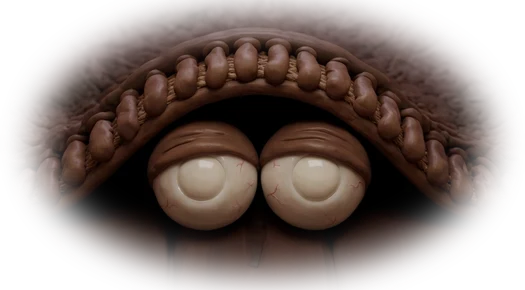
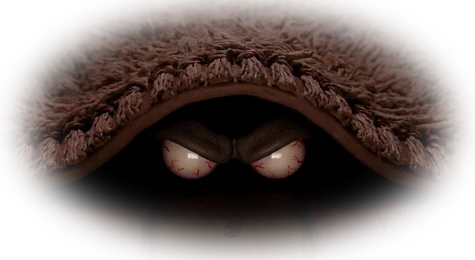
Cabin site: clay candle flames everywhere, slower clay fire, meaner smaller rug eyes under a matching rug edge
Claude-Session: https://claude.ai/code/session_017UCt1yh6wM11RSMuh2VTku

Changed region(s): [[0.0295, 0.0923, 0.9726, 0.8], [0.5011, 0.8, 0.56, 0.8615], [0.7074, 0.0923, 0.7368, 0.1231]]

diff --git a/docs/index.html b/docs/index.html
@@ -101,17 +101,12 @@ button{font:inherit;color:inherit}
 #signSpot.found{cursor:pointer;background:radial-gradient(closest-side,rgba(190,215,255,.16),transparent);box-shadow:0 0 0 2px rgba(190,215,255,.0),0 0 40px 8px rgba(160,195,255,.28);animation:signglow 2.4s ease-in-out infinite alternate}
 @keyframes signglow{from{box-shadow:0 0 26px 4px rgba(160,195,255,.16)}to{box-shadow:0 0 46px 10px rgba(160,195,255,.34)}}
 /* Something under the rug (George 2026-11-28): the centre of the rug's front edge is lifted; clay eyes sit under it and only the pupils follow the mouse */
-.rlift{position:absolute;left:39.97%;top:77.62%;width:22.34%;aspect-ratio:525/290;pointer-events:none;z-index:3}
+.rlift{position:absolute;left:43.05%;top:81.57%;width:16.17%;aspect-ratio:475/260;pointer-events:none;z-index:3}
 .rlift>img{position:absolute;inset:0;width:100%;height:100%}
-.rlift .balls{position:absolute;inset:0;-webkit-mask:url(img/rug-eyemask.png) center/100% 100% no-repeat;mask:url(img/rug-eyemask.png) center/100% 100% no-repeat}
-.rlift .iris{position:absolute;width:9.6%;aspect-ratio:1;translate:-50% -50%;background:url(img/eye-iris.webp?v=1) center/100% 100% no-repeat;border-radius:50%;box-shadow:0 0 0 1px rgba(40,10,0,.5),inset 0 -2px 4px rgba(0,0,0,.35);filter:saturate(1.1)}
-.rlift .gl{position:absolute;width:3.2%;z-index:2;aspect-ratio:1.6;border-radius:50%;background:radial-gradient(closest-side,rgba(255,255,255,.95),rgba(255,255,255,0));translate:-50% -50%}
-.rlift .white{position:absolute;inset:0;background:radial-gradient(9% 15% at 38.6% 60%,#f1e9dc,#ddd2c2 55%,#b4a795 85%,#8a7c6c),radial-gradient(9% 15% at 59.4% 60%,#f1e9dc,#ddd2c2 55%,#b4a795 85%,#8a7c6c) ;background-size:100% 100%}
-.rlift .white{background:none}
-.rlift .white::before,.rlift .white::after{content:'';position:absolute;top:50%;width:18%;height:26%;border-radius:50%;background:radial-gradient(closest-side at 46% 42%,#f3ebde,#ddd2c2 55%,#b9ab98 82%,#8f8170)}
-.rlift .white::before{left:30%}.rlift .white::after{left:50.2%}
-.rlift .shade{position:absolute;inset:0;background:linear-gradient(rgba(30,12,6,.55),rgba(30,12,6,0) 62%,rgba(0,0,0,.25))}
-.rlift .bl{position:absolute;inset:0;background:linear-gradient(#6b4a38,#4a3024 60%,#2c1a12);transform-origin:50% 54%;transform:scaleY(0)}
+.rlift .balls{position:absolute;inset:0;-webkit-mask:url(img/rug-eyemask.png?v=2) center/100% 100% no-repeat;mask:url(img/rug-eyemask.png?v=2) center/100% 100% no-repeat}
+.rlift .iris{position:absolute;width:4.6%;aspect-ratio:1;translate:-50% -50%;border-radius:50%;background:radial-gradient(circle at 36% 34%,rgba(255,240,220,.85) 0 9%,transparent 13%),radial-gradient(closest-side,#070101 0 58%,#4a0707 78%,rgba(90,10,10,.5) 90%,transparent)}
+.rlift .shade{position:absolute;inset:0;background:linear-gradient(rgba(20,6,3,.6),rgba(20,6,3,0) 63%,rgba(0,0,0,.25))}
+.rlift .bl{position:absolute;inset:0;background:linear-gradient(#4a3226,#2e1d15 60%,#1a0f0a);transform-origin:50% 54%;transform:scaleY(0)}
 .rlift.blink .bl{animation:blink .3s ease-in-out}
 @keyframes blink{50%{transform:scaleY(1)}}
 .fx{position:absolute;inset:0;z-index:2;pointer-events:none;overflow:hidden}
@@ -120,6 +115,8 @@ button{font:inherit;color:inherit}
 @keyframes flk{0%{opacity:.85;transform:translate(-50%,-55%) scale(1,1)}11%{opacity:.6;transform:translate(-52%,-57%) scale(.9,1.08)}22%{opacity:.95;transform:translate(-49%,-55%) scale(1.05,.95)}33%{opacity:.7;transform:translate(-51%,-56%) scale(.95,1.05)}44%{opacity:1;transform:translate(-50%,-54%) scale(1.08,1)}55%{opacity:.55;transform:translate(-48%,-57%) scale(.88,1.1)}66%{opacity:.9;transform:translate(-50%,-55%) scale(1,1)}77%{opacity:.75;transform:translate(-52%,-55%) scale(.96,1.04)}88%{opacity:1;transform:translate(-50%,-56%) scale(1.04,.98)}100%{opacity:.85;transform:translate(-50%,-55%) scale(1,1)}}
 .fx .halo{position:absolute;transform:translate(-50%,-50%);border-radius:50%;mix-blend-mode:screen;background:radial-gradient(closest-side,rgba(255,150,60,.32),rgba(255,110,30,.12) 55%,transparent);animation:hal 2.3s ease-in-out infinite alternate;animation-delay:var(--dl,0s)}
 @keyframes hal{0%{opacity:.55}20%{opacity:.9}35%{opacity:.6}60%{opacity:1}80%{opacity:.7}100%{opacity:.95}}
+.fx .cfl{position:absolute;translate:-50% -100%;background:url(img/clay-candle.webp?v=1) 0 0/400% 100% no-repeat;animation:cfire 2s steps(4) infinite;filter:drop-shadow(0 0 .25vw rgba(255,170,60,.7))}
+@media (prefers-reduced-motion: reduce){.fx .cfl{animation:none}}
 .fx .cfire{position:absolute;background:url(img/clay-fire.webp?v=1) 0 0/400% 100% no-repeat;animation:cfire .6s steps(4) infinite;filter:drop-shadow(0 0 .5vw rgba(255,130,30,.55));-webkit-mask-image:linear-gradient(to top,transparent,#000 16%);mask-image:linear-gradient(to top,transparent,#000 16%)}
 @keyframes cfire{to{background-position:133.333% 0}}
 @media (prefers-reduced-motion: reduce){.fx .cfire{animation:none}}
@@ -833,13 +830,14 @@ button{font:inherit;color:inherit}
       inside:{img:'img/inside.jpg?v=8',
         candles:[[15.6,33,2.6],[17.8,33.5,2.4],[19.8,32,2.6],[15,51,3],[13,56.5,2.6],[14,57,2.4],[61.8,43,2.4],[64.6,42.5,2.4],[66.1,42.8,2.4],[68,43.5,2.4],[80.9,33,2.4]],
         halos:[[17,40,16,24],[14.5,55,12,16],[65,47,12,14],[81,34,8,10]],
-        fire:[60.5,56,9,14.5], fireHalo:[65,66,24,22], clayFire:[61.9,56.9,5.9,10.6,.56],
+        fire:[60.5,56,9,14.5], fireHalo:[65,66,24,22], clayFire:[61.9,56.9,5.9,10.6,1.25],
+        cflames:[[15.62, 34.31, 1.05, 2.54], [17.78, 34.18, 0.79, 2.15], [20.01, 33.01, 1.05, 2.54], [15.18, 52.67, 1.29, 4.09], [12.83, 56.97, 1.17, 2.92], [13.84, 58.01, 1.05, 2.34], [61.76, 44.34, 0.79, 2.15], [64.62, 44.08, 0.91, 2.15], [66.15, 43.17, 1.05, 2.15], [68.08, 44.73, 0.79, 1.56], [81.1, 34.31, 1.05, 2.73]],
         tv:[29.9,50.2,8.6,11.4],
         bulbs:[[86.7,26,'#ff4a3a'],[78,30,'#ff4a3a'],[83.8,31.8,'#ff4a3a'],[81.8,33.5,'#ff4a3a'],[76.1,49.9,'#ff4a3a'],[75.3,70.8,'#ff4a3a'],[86.5,51.5,'#ff4a3a'],[80.2,32.4,'#3cff6a'],[84.4,34.6,'#3cff6a'],[82.4,35.6,'#3cff6a'],[78,47.3,'#3cff6a'],[77.2,54.6,'#3cff6a'],[77,72,'#3cff6a'],[85.4,38.4,'#3cff6a'],[75.6,43.6,'#ffd84a'],[76.2,60.8,'#ffd84a'],[78.3,34,'#ffd84a']]},
       tree:{img:'img/tree.jpg?v=7',
-        candles:[[64.5,29.5,3.4],[66.8,31,2.8],[84,33,3],[87.4,30,3.4]],
+        candles:[[64.5,29.5,3.4],[66.8,31,2.8],[84,33,3],[87.4,30,3.4]], cflames:[[64.2, 31.6, 1.75, 4.6], [66.3, 33.0, 1.5, 4.0], [83.0, 35.3, 1.6, 4.6], [86.7, 32.6, 1.75, 5.2]],
         halos:[[66,33,12,16],[86,33,12,16]],
-        fire:[70,64,11.5,15], fireHalo:[76,74,26,26], clayFire:[72.1,63.8,7,10.6,.64]},
+        fire:[70,64,11.5,15], fireHalo:[76,74,26,26], clayFire:[72.1,63.8,7,10.6,1.4]},
       peddler:{lamp:true,halos:[[49,21,16,12],[49,60,46,40]]},
       exterior:{halos:[[54.8,57,10,10],[48,57,6,8],[56,57,5,7],[63.4,57,4,6],[48.4,34,4,6]]}
     };
@@ -851,7 +849,10 @@ button{font:inherit;color:inherit}
       if(c.fire){ el(L,'halo',{left:c.fireHalo[0]+'%',top:c.fireHalo[1]+'%',width:c.fireHalo[2]+'%',height:c.fireHalo[3]+'%','animation-duration':'.7s'});
         // George 2026-11-28: sculpted clay flames in stop-motion frames instead of a heat-warp filter
         var q=c.clayFire; el(L,'cfire',{left:q[0]+'%',top:q[1]+'%',width:q[2]+'%',height:q[3]+'%','animation-duration':q[4]+'s'}) }
-      (c.candles||[]).forEach(function(q){ el(L,'fl',{left:q[0]+'%',top:q[1]+'%','--s':q[2]+'%','--d':rnd(.9,1.6)+'s','--dl':'-'+rnd(0,1.5)+'s'}) });
+      (c.candles||[]).forEach(function(q){ el(L,'fl',{left:q[0]+'%',top:q[1]+'%','--s':q[2]+'%','--d':rnd(2.4,3.4)+'s','--dl':'-'+rnd(0,3)+'s'});
+ });
+      // George 2026-11-28: every candle gets a sculpted clay flame in slow stop-motion poses, sized over the painted flame
+      (c.cflames||[]).forEach(function(q){ el(L,'cfl',{left:q[0]+'%',top:q[1]+'%',width:q[2]+'%',height:q[3]+'%','animation-duration':rnd(1.7,2.3)+'s','animation-delay':'-'+rnd(0,2)+'s'}) });
       (c.bulbs||[]).forEach(function(b){ var d=el(L,'bulb',{left:b[0]+'%',top:b[1]+'%','--c':b[2],'--dl':'-'+rnd(0,4.2)+'s'}); d.appendChild(document.createElement('b')); d.appendChild(document.createElement('i')) });
       if(c.lamp) el(L,'dark',{});
       if(c.tv){ var t=c.tv, cv=document.createElement('canvas'); cv.width=72; cv.height=54; cv.style.left=t[0]+'%'; cv.style.top=t[1]+'%'; cv.style.width=t[2]+'%'; cv.style.height=t[3]+'%'; L.appendChild(cv);
@@ -881,16 +882,16 @@ button{font:inherit;color:inherit}
     var L=$('fx-inside'); if(!L) return;
     // George 2026-11-28: the rug's front edge is raised at its centre; the eyes stay put under it and only the pupils follow the mouse
     var R=document.createElement('div'); R.className='rlift';
-    R.innerHTML='<img src="img/rug-lift.webp?v=1" alt=""><div class="balls"><div class="white"></div><i class="iris"></i><i class="iris"></i><div class="shade"></div><i class="gl" style="left:35.8%;top:60.5%"></i><i class="gl" style="left:56.6%;top:60.5%"></i><div class="bl"></div></div>';
+    R.innerHTML='<img src="img/rug-lift.webp?v=2" alt=""><div class="balls"><i class="iris"></i><i class="iris"></i><div class="shade"></div><div class="bl"></div></div>';
     L.appendChild(R);
-    var IR=R.querySelectorAll('.iris'), C=[[38.1,62],[60,62]], look=null, pup={x:0,y:0}, last=0;
+    var IR=R.querySelectorAll('.iris'), C=[[39.6,62.5],[58.7,62.5]], look=null, pup={x:0,y:0}, last=0;
     window.addEventListener('pointermove',function(e){ if(cur!=='inside') return; var r=R.getBoundingClientRect(); look={x:e.clientX-(r.left+r.width*.49), y:e.clientY-(r.top+r.height*.62), w:r.width}; last=Date.now() },{passive:true});
     function frame(){ requestAnimationFrame(frame); if(cur!=='inside') return;
       var tx=0, ty=0;
       if(look&&Date.now()-last<6000){ var d=Math.hypot(look.x,look.y)||1, m=Math.min(1,d/(look.w*.9)); tx=look.x/d*m; ty=look.y/d*m }
       else { var t=Date.now()/1000; tx=Math.sin(t*.37)*.6; ty=Math.sin(t*.23)*.3 }
       pup.x+=(tx-pup.x)*.12; pup.y+=(ty-pup.y)*.12;
-      for(var i=0;i<2;i++){ IR[i].style.left=(C[i][0]+pup.x*3.6+(i?-1:1)*Math.max(0,pup.y)*.4)+'%'; IR[i].style.top=(C[i][1]+pup.y*4.2)+'%' }
+      for(var i=0;i<2;i++){ IR[i].style.left=(C[i][0]+pup.x*3.4)+'%'; IR[i].style.top=(C[i][1]+pup.y*3.2)+'%' }
     }
     requestAnimationFrame(frame);
     setInterval(function(){ if(cur==='inside'&&Math.random()<.4){ R.classList.remove('blink'); void R.offsetWidth; R.classList.add('blink') } },2300);

diff --git a/site/world/index.html b/site/world/index.html
@@ -101,17 +101,12 @@ button{font:inherit;color:inherit}
 #signSpot.found{cursor:pointer;background:radial-gradient(closest-side,rgba(190,215,255,.16),transparent);box-shadow:0 0 0 2px rgba(190,215,255,.0),0 0 40px 8px rgba(160,195,255,.28);animation:signglow 2.4s ease-in-out infinite alternate}
 @keyframes signglow{from{box-shadow:0 0 26px 4px rgba(160,195,255,.16)}to{box-shadow:0 0 46px 10px rgba(160,195,255,.34)}}
 /* Something under the rug (George 2026-11-28): the centre of the rug's front edge is lifted; clay eyes sit under it and only the pupils follow the mouse */
-.rlift{position:absolute;left:39.97%;top:77.62%;width:22.34%;aspect-ratio:525/290;pointer-events:none;z-index:3}
+.rlift{position:absolute;left:43.05%;top:81.57%;width:16.17%;aspect-ratio:475/260;pointer-events:none;z-index:3}
 .rlift>img{position:absolute;inset:0;width:100%;height:100%}
-.rlift .balls{position:absolute;inset:0;-webkit-mask:url(img/rug-eyemask.png) center/100% 100% no-repeat;mask:url(img/rug-eyemask.png) center/100% 100% no-repeat}
-.rlift .iris{position:absolute;width:9.6%;aspect-ratio:1;translate:-50% -50%;background:url(img/eye-iris.webp?v=1) center/100% 100% no-repeat;border-radius:50%;box-shadow:0 0 0 1px rgba(40,10,0,.5),inset 0 -2px 4px rgba(0,0,0,.35);filter:saturate(1.1)}
-.rlift .gl{position:absolute;width:3.2%;z-index:2;aspect-ratio:1.6;border-radius:50%;background:radial-gradient(closest-side,rgba(255,255,255,.95),rgba(255,255,255,0));translate:-50% -50%}
-.rlift .white{position:absolute;inset:0;background:radial-gradient(9% 15% at 38.6% 60%,#f1e9dc,#ddd2c2 55%,#b4a795 85%,#8a7c6c),radial-gradient(9% 15% at 59.4% 60%,#f1e9dc,#ddd2c2 55%,#b4a795 85%,#8a7c6c) ;background-size:100% 100%}
-.rlift .white{background:none}
-.rlift .white::before,.rlift .white::after{content:'';position:absolute;top:50%;width:18%;height:26%;border-radius:50%;background:radial-gradient(closest-side at 46% 42%,#f3ebde,#ddd2c2 55%,#b9ab98 82%,#8f8170)}
-.rlift .white::before{left:30%}.rlift .white::after{left:50.2%}
-.rlift .shade{position:absolute;inset:0;background:linear-gradient(rgba(30,12,6,.55),rgba(30,12,6,0) 62%,rgba(0,0,0,.25))}
-.rlift .bl{position:absolute;inset:0;background:linear-gradient(#6b4a38,#4a3024 60%,#2c1a12);transform-origin:50% 54%;transform:scaleY(0)}
+.rlift .balls{position:absolute;inset:0;-webkit-mask:url(img/rug-eyemask.png?v=2) center/100% 100% no-repeat;mask:url(img/rug-eyemask.png?v=2) center/100% 100% no-repeat}
+.rlift .iris{position:absolute;width:4.6%;aspect-ratio:1;translate:-50% -50%;border-radius:50%;background:radial-gradient(circle at 36% 34%,rgba(255,240,220,.85) 0 9%,transparent 13%),radial-gradient(closest-side,#070101 0 58%,#4a0707 78%,rgba(90,10,10,.5) 90%,transparent)}
+.rlift .shade{position:absolute;inset:0;background:linear-gradient(rgba(20,6,3,.6),rgba(20,6,3,0) 63%,rgba(0,0,0,.25))}
+.rlift .bl{position:absolute;inset:0;background:linear-gradient(#4a3226,#2e1d15 60%,#1a0f0a);transform-origin:50% 54%;transform:scaleY(0)}
 .rlift.blink .bl{animation:blink .3s ease-in-out}
 @keyframes blink{50%{transform:scaleY(1)}}
 .fx{position:absolute;inset:0;z-index:2;pointer-events:none;overflow:hidden}
@@ -120,6 +115,8 @@ button{font:inherit;color:inherit}
 @keyframes flk{0%{opacity:.85;transform:translate(-50%,-55%) scale(1,1)}11%{opacity:.6;transform:translate(-52%,-57%) scale(.9,1.08)}22%{opacity:.95;transform:translate(-49%,-55%) scale(1.05,.95)}33%{opacity:.7;transform:translate(-51%,-56%) scale(.95,1.05)}44%{opacity:1;transform:translate(-50%,-54%) scale(1.08,1)}55%{opacity:.55;transform:translate(-48%,-57%) scale(.88,1.1)}66%{opacity:.9;transform:translate(-50%,-55%) scale(1,1)}77%{opacity:.75;transform:translate(-52%,-55%) scale(.96,1.04)}88%{opacity:1;transform:translate(-50%,-56%) scale(1.04,.98)}100%{opacity:.85;transform:translate(-50%,-55%) scale(1,1)}}
 .fx .halo{position:absolute;transform:translate(-50%,-50%);border-radius:50%;mix-blend-mode:screen;background:radial-gradient(closest-side,rgba(255,150,60,.32),rgba(255,110,30,.12) 55%,transparent);animation:hal 2.3s ease-in-out infinite alternate;animation-delay:var(--dl,0s)}
 @keyframes hal{0%{opacity:.55}20%{opacity:.9}35%{opacity:.6}60%{opacity:1}80%{opacity:.7}100%{opacity:.95}}
+.fx .cfl{position:absolute;translate:-50% -100%;background:url(img/clay-candle.webp?v=1) 0 0/400% 100% no-repeat;animation:cfire 2s steps(4) infinite;filter:drop-shadow(0 0 .25vw rgba(255,170,60,.7))}
+@media (prefers-reduced-motion: reduce){.fx .cfl{animation:none}}
 .fx .cfire{position:absolute;background:url(img/clay-fire.webp?v=1) 0 0/400% 100% no-repeat;animation:cfire .6s steps(4) infinite;filter:drop-shadow(0 0 .5vw rgba(255,130,30,.55));-webkit-mask-image:linear-gradient(to top,transparent,#000 16%);mask-image:linear-gradient(to top,transparent,#000 16%)}
 @keyframes cfire{to{background-position:133.333% 0}}
 @media (prefers-reduced-motion: reduce){.fx .cfire{animation:none}}
@@ -833,13 +830,14 @@ button{font:inherit;color:inherit}
       inside:{img:'img/inside.jpg?v=8',
         candles:[[15.6,33,2.6],[17.8,33.5,2.4],[19.8,32,2.6],[15,51,3],[13,56.5,2.6],[14,57,2.4],[61.8,43,2.4],[64.6,42.5,2.4],[66.1,42.8,2.4],[68,43.5,2.4],[80.9,33,2.4]],
         halos:[[17,40,16,24],[14.5,55,12,16],[65,47,12,14],[81,34,8,10]],
-        fire:[60.5,56,9,14.5], fireHalo:[65,66,24,22], clayFire:[61.9,56.9,5.9,10.6,.56],
+        fire:[60.5,56,9,14.5], fireHalo:[65,66,24,22], clayFire:[61.9,56.9,5.9,10.6,1.25],
+        cflames:[[15.62, 34.31, 1.05, 2.54], [17.78, 34.18, 0.79, 2.15], [20.01, 33.01, 1.05, 2.54], [15.18, 52.67, 1.29, 4.09], [12.83, 56.97, 1.17, 2.92], [13.84, 58.01, 1.05, 2.34], [61.76, 44.34, 0.79, 2.15], [64.62, 44.08, 0.91, 2.15], [66.15, 43.17, 1.05, 2.15], [68.08, 44.73, 0.79, 1.56], [81.1, 34.31, 1.05, 2.73]],
         tv:[29.9,50.2,8.6,11.4],
         bulbs:[[86.7,26,'#ff4a3a'],[78,30,'#ff4a3a'],[83.8,31.8,'#ff4a3a'],[81.8,33.5,'#ff4a3a'],[76.1,49.9,'#ff4a3a'],[75.3,70.8,'#ff4a3a'],[86.5,51.5,'#ff4a3a'],[80.2,32.4,'#3cff6a'],[84.4,34.6,'#3cff6a'],[82.4,35.6,'#3cff6a'],[78,47.3,'#3cff6a'],[77.2,54.6,'#3cff6a'],[77,72,'#3cff6a'],[85.4,38.4,'#3cff6a'],[75.6,43.6,'#ffd84a'],[76.2,60.8,'#ffd84a'],[78.3,34,'#ffd84a']]},
       tree:{img:'img/tree.jpg?v=7',
-        candles:[[64.5,29.5,3.4],[66.8,31,2.8],[84,33,3],[87.4,30,3.4]],
+        candles:[[64.5,29.5,3.4],[66.8,31,2.8],[84,33,3],[87.4,30,3.4]], cflames:[[64.2, 31.6, 1.75, 4.6], [66.3, 33.0, 1.5, 4.0], [83.0, 35.3, 1.6, 4.6], [86.7, 32.6, 1.75, 5.2]],
         halos:[[66,33,12,16],[86,33,12,16]],
-        fire:[70,64,11.5,15], fireHalo:[76,74,26,26], clayFire:[72.1,63.8,7,10.6,.64]},
+        fire:[70,64,11.5,15], fireHalo:[76,74,26,26], clayFire:[72.1,63.8,7,10.6,1.4]},
       peddler:{lamp:true,halos:[[49,21,16,12],[49,60,46,40]]},
       exterior:{halos:[[54.8,57,10,10],[48,57,6,8],[56,57,5,7],[63.4,57,4,6],[48.4,34,4,6]]}
     };
@@ -851,7 +849,10 @@ button{font:inherit;color:inherit}
       if(c.fire){ el(L,'halo',{left:c.fireHalo[0]+'%',top:c.fireHalo[1]+'%',width:c.fireHalo[2]+'%',height:c.fireHalo[3]+'%','animation-duration':'.7s'});
         // George 2026-11-28: sculpted clay flames in stop-motion frames instead of a heat-warp filter
         var q=c.clayFire; el(L,'cfire',{left:q[0]+'%',top:q[1]+'%',width:q[2]+'%',height:q[3]+'%','animation-duration':q[4]+'s'}) }
-      (c.candles||[]).forEach(function(q){ el(L,'fl',{left:q[0]+'%',top:q[1]+'%','--s':q[2]+'%','--d':rnd(.9,1.6)+'s','--dl':'-'+rnd(0,1.5)+'s'}) });
+      (c.candles||[]).forEach(function(q){ el(L,'fl',{left:q[0]+'%',top:q[1]+'%','--s':q[2]+'%','--d':rnd(2.4,3.4)+'s','--dl':'-'+rnd(0,3)+'s'});
+ });
+      // George 2026-11-28: every candle gets a sculpted clay flame in slow stop-motion poses, sized over the painted flame
+      (c.cflames||[]).forEach(function(q){ el(L,'cfl',{left:q[0]+'%',top:q[1]+'%',width:q[2]+'%',height:q[3]+'%','animation-duration':rnd(1.7,2.3)+'s','animation-delay':'-'+rnd(0,2)+'s'}) });
       (c.bulbs||[]).forEach(function(b){ var d=el(L,'bulb',{left:b[0]+'%',top:b[1]+'%','--c':b[2],'--dl':'-'+rnd(0,4.2)+'s'}); d.appendChild(document.createElement('b')); d.appendChild(document.createElement('i')) });
       if(c.lamp) el(L,'dark',{});
       if(c.tv){ var t=c.tv, cv=document.createElement('canvas'); cv.width=72; cv.height=54; cv.style.left=t[0]+'%'; cv.style.top=t[1]+'%'; cv.style.width=t[2]+'%'; cv.style.height=t[3]+'%'; L.appendChild(cv);
@@ -881,16 +882,16 @@ button{font:inherit;color:inherit}
     var L=$('fx-inside'); if(!L) return;
     // George 2026-11-28: the rug's front edge is raised at its centre; the eyes stay put under it and only the pupils follow the mouse
     var R=document.createElement('div'); R.className='rlift';
-    R.innerHTML='<img src="img/rug-lift.webp?v=1" alt=""><div class="balls"><div class="white"></div><i class="iris"></i><i class="iris"></i><div class="shade"></div><i class="gl" style="left:35.8%;top:60.5%"></i><i class="gl" style="left:56.6%;top:60.5%"></i><div class="bl"></div></div>';
+    R.innerHTML='<img src="img/rug-lift.webp?v=2" alt=""><div class="balls"><i class="iris"></i><i class="iris"></i><div class="shade"></div><div class="bl"></div></div>';
     L.appendChild(R);
-    var IR=R.querySelectorAll('.iris'), C=[[38.1,62],[60,62]], look=null, pup={x:0,y:0}, last=0;
+    var IR=R.querySelectorAll('.iris'), C=[[39.6,62.5],[58.7,62.5]], look=null, pup={x:0,y:0}, last=0;
     window.addEventListener('pointermove',function(e){ if(cur!=='inside') return; var r=R.getBoundingClientRect(); look={x:e.clientX-(r.left+r.width*.49), y:e.clientY-(r.top+r.height*.62), w:r.width}; last=Date.now() },{passive:true});
     function frame(){ requestAnimationFrame(frame); if(cur!=='inside') return;
       var tx=0, ty=0;
       if(look&&Date.now()-last<6000){ var d=Math.hypot(look.x,look.y)||1, m=Math.min(1,d/(look.w*.9)); tx=look.x/d*m; ty=look.y/d*m }
       else { var t=Date.now()/1000; tx=Math.sin(t*.37)*.6; ty=Math.sin(t*.23)*.3 }
       pup.x+=(tx-pup.x)*.12; pup.y+=(ty-pup.y)*.12;
-      for(var i=0;i<2;i++){ IR[i].style.left=(C[i][0]+pup.x*3.6+(i?-1:1)*Math.max(0,pup.y)*.4)+'%'; IR[i].style.top=(C[i][1]+pup.y*4.2)+'%' }
+      for(var i=0;i<2;i++){ IR[i].style.left=(C[i][0]+pup.x*3.4)+'%'; IR[i].style.top=(C[i][1]+pup.y*3.2)+'%' }
     }
     requestAnimationFrame(frame);
     setInterval(function(){ if(cur==='inside'&&Math.random()<.4){ R.classList.remove('blink'); void R.offsetWidth; R.classList.add('blink') } },2300);

diff --git a/site/world/page.html b/site/world/page.html
@@ -96,17 +96,12 @@ button{font:inherit;color:inherit}
 #signSpot.found{cursor:pointer;background:radial-gradient(closest-side,rgba(190,215,255,.16),transparent);box-shadow:0 0 0 2px rgba(190,215,255,.0),0 0 40px 8px rgba(160,195,255,.28);animation:signglow 2.4s ease-in-out infinite alternate}
 @keyframes signglow{from{box-shadow:0 0 26px 4px rgba(160,195,255,.16)}to{box-shadow:0 0 46px 10px rgba(160,195,255,.34)}}
 /* Something under the rug (George 2026-11-28): the centre of the rug's front edge is lifted; clay eyes sit under it and only the pupils follow the mouse */
-.rlift{position:absolute;left:39.97%;top:77.62%;width:22.34%;aspect-ratio:525/290;pointer-events:none;z-index:3}
+.rlift{position:absolute;left:43.05%;top:81.57%;width:16.17%;aspect-ratio:475/260;pointer-events:none;z-index:3}
 .rlift>img{position:absolute;inset:0;width:100%;height:100%}
-.rlift .balls{position:absolute;inset:0;-webkit-mask:url(img/rug-eyemask.png) center/100% 100% no-repeat;mask:url(img/rug-eyemask.png) center/100% 100% no-repeat}
-.rlift .iris{position:absolute;width:9.6%;aspect-ratio:1;translate:-50% -50%;background:url(img/eye-iris.webp?v=1) center/100% 100% no-repeat;border-radius:50%;box-shadow:0 0 0 1px rgba(40,10,0,.5),inset 0 -2px 4px rgba(0,0,0,.35);filter:saturate(1.1)}
-.rlift .gl{position:absolute;width:3.2%;z-index:2;aspect-ratio:1.6;border-radius:50%;background:radial-gradient(closest-side,rgba(255,255,255,.95),rgba(255,255,255,0));translate:-50% -50%}
-.rlift .white{position:absolute;inset:0;background:radial-gradient(9% 15% at 38.6% 60%,#f1e9dc,#ddd2c2 55%,#b4a795 85%,#8a7c6c),radial-gradient(9% 15% at 59.4% 60%,#f1e9dc,#ddd2c2 55%,#b4a795 85%,#8a7c6c) ;background-size:100% 100%}
-.rlift .white{background:none}
-.rlift .white::before,.rlift .white::after{content:'';position:absolute;top:50%;width:18%;height:26%;border-radius:50%;background:radial-gradient(closest-side at 46% 42%,#f3ebde,#ddd2c2 55%,#b9ab98 82%,#8f8170)}
-.rlift .white::before{left:30%}.rlift .white::after{left:50.2%}
-.rlift .shade{position:absolute;inset:0;background:linear-gradient(rgba(30,12,6,.55),rgba(30,12,6,0) 62%,rgba(0,0,0,.25))}
-.rlift .bl{position:absolute;inset:0;background:linear-gradient(#6b4a38,#4a3024 60%,#2c1a12);transform-origin:50% 54%;transform:scaleY(0)}
+.rlift .balls{position:absolute;inset:0;-webkit-mask:url(img/rug-eyemask.png?v=2) center/100% 100% no-repeat;mask:url(img/rug-eyemask.png?v=2) center/100% 100% no-repeat}
+.rlift .iris{position:absolute;width:4.6%;aspect-ratio:1;translate:-50% -50%;border-radius:50%;background:radial-gradient(circle at 36% 34%,rgba(255,240,220,.85) 0 9%,transparent 13%),radial-gradient(closest-side,#070101 0 58%,#4a0707 78%,rgba(90,10,10,.5) 90%,transparent)}
+.rlift .shade{position:absolute;inset:0;background:linear-gradient(rgba(20,6,3,.6),rgba(20,6,3,0) 63%,rgba(0,0,0,.25))}
+.rlift .bl{position:absolute;inset:0;background:linear-gradient(#4a3226,#2e1d15 60%,#1a0f0a);transform-origin:50% 54%;transform:scaleY(0)}
 .rlift.blink .bl{animation:blink .3s ease-in-out}
 @keyframes blink{50%{transform:scaleY(1)}}
 .fx{position:absolute;inset:0;z-index:2;pointer-events:none;overflow:hidden}
@@ -115,6 +110,8 @@ button{font:inherit;color:inherit}
 @keyframes flk{0%{opacity:.85;transform:translate(-50%,-55%) scale(1,1)}11%{opacity:.6;transform:translate(-52%,-57%) scale(.9,1.08)}22%{opacity:.95;transform:translate(-49%,-55%) scale(1.05,.95)}33%{opacity:.7;transform:translate(-51%,-56%) scale(.95,1.05)}44%{opacity:1;transform:translate(-50%,-54%) scale(1.08,1)}55%{opacity:.55;transform:translate(-48%,-57%) scale(.88,1.1)}66%{opacity:.9;transform:translate(-50%,-55%) scale(1,1)}77%{opacity:.75;transform:translate(-52%,-55%) scale(.96,1.04)}88%{opacity:1;transform:translate(-50%,-56%) scale(1.04,.98)}100%{opacity:.85;transform:translate(-50%,-55%) scale(1,1)}}
 .fx .halo{position:absolute;transform:translate(-50%,-50%);border-radius:50%;mix-blend-mode:screen;background:radial-gradient(closest-side,rgba(255,150,60,.32),rgba(255,110,30,.12) 55%,transparent);animation:hal 2.3s ease-in-out infinite alternate;animation-delay:var(--dl,0s)}
 @keyframes hal{0%{opacity:.55}20%{opacity:.9}35%{opacity:.6}60%{opacity:1}80%{opacity:.7}100%{opacity:.95}}
+.fx .cfl{position:absolute;translate:-50% -100%;background:url(img/clay-candle.webp?v=1) 0 0/400% 100% no-repeat;animation:cfire 2s steps(4) infinite;filter:drop-shadow(0 0 .25vw rgba(255,170,60,.7))}
+@media (prefers-reduced-motion: reduce){.fx .cfl{animation:none}}
 .fx .cfire{position:absolute;background:url(img/clay-fire.webp?v=1) 0 0/400% 100% no-repeat;animation:cfire .6s steps(4) infinite;filter:drop-shadow(0 0 .5vw rgba(255,130,30,.55));-webkit-mask-image:linear-gradient(to top,transparent,#000 16%);mask-image:linear-gradient(to top,transparent,#000 16%)}
 @keyframes cfire{to{background-position:133.333% 0}}
 @media (prefers-reduced-motion: reduce){.fx .cfire{animation:none}}
@@ -828,13 +825,14 @@ button{font:inherit;color:inherit}
       inside:{img:'img/inside.jpg?v=8',
         candles:[[15.6,33,2.6],[17.8,33.5,2.4],[19.8,32,2.6],[15,51,3],[13,56.5,2.6],[14,57,2.4],[61.8,43,2.4],[64.6,42.5,2.4],[66.1,42.8,2.4],[68,43.5,2.4],[80.9,33,2.4]],
         halos:[[17,40,16,24],[14.5,55,12,16],[65,47,12,14],[81,34,8,10]],
-        fire:[60.5,56,9,14.5], fireHalo:[65,66,24,22], clayFire:[61.9,56.9,5.9,10.6,.56],
+        fire:[60.5,56,9,14.5], fireHalo:[65,66,24,22], clayFire:[61.9,56.9,5.9,10.6,1.25],
+        cflames:[[15.62, 34.31, 1.05, 2.54], [17.78, 34.18, 0.79, 2.15], [20.01, 33.01, 1.05, 2.54], [15.18, 52.67, 1.29, 4.09], [12.83, 56.97, 1.17, 2.92], [13.84, 58.01, 1.05, 2.34], [61.76, 44.34, 0.79, 2.15], [64.62, 44.08, 0.91, 2.15], [66.15, 43.17, 1.05, 2.15], [68.08, 44.73, 0.79, 1.56], [81.1, 34.31, 1.05, 2.73]],
         tv:[29.9,50.2,8.6,11.4],
         bulbs:[[86.7,26,'#ff4a3a'],[78,30,'#ff4a3a'],[83.8,31.8,'#ff4a3a'],[81.8,33.5,'#ff4a3a'],[76.1,49.9,'#ff4a3a'],[75.3,70.8,'#ff4a3a'],[86.5,51.5,'#ff4a3a'],[80.2,32.4,'#3cff6a'],[84.4,34.6,'#3cff6a'],[82.4,35.6,'#3cff6a'],[78,47.3,'#3cff6a'],[77.2,54.6,'#3cff6a'],[77,72,'#3cff6a'],[85.4,38.4,'#3cff6a'],[75.6,43.6,'#ffd84a'],[76.2,60.8,'#ffd84a'],[78.3,34,'#ffd84a']]},
       tree:{img:'img/tree.jpg?v=7',
-        candles:[[64.5,29.5,3.4],[66.8,31,2.8],[84,33,3],[87.4,30,3.4]],
+        candles:[[64.5,29.5,3.4],[66.8,31,2.8],[84,33,3],[87.4,30,3.4]], cflames:[[64.2, 31.6, 1.75, 4.6], [66.3, 33.0, 1.5, 4.0], [83.0, 35.3, 1.6, 4.6], [86.7, 32.6, 1.75, 5.2]],
         halos:[[66,33,12,16],[86,33,12,16]],
-        fire:[70,64,11.5,15], fireHalo:[76,74,26,26], clayFire:[72.1,63.8,7,10.6,.64]},
+        fire:[70,64,11.5,15], fireHalo:[76,74,26,26], clayFire:[72.1,63.8,7,10.6,1.4]},
       peddler:{lamp:true,halos:[[49,21,16,12],[49,60,46,40]]},
       exterior:{halos:[[54.8,57,10,10],[48,57,6,8],[56,57,5,7],[63.4,57,4,6],[48.4,34,4,6]]}
     };
@@ -846,7 +844,10 @@ button{font:inherit;color:inherit}
       if(c.fire){ el(L,'halo',{left:c.fireHalo[0]+'%',top:c.fireHalo[1]+'%',width:c.fireHalo[2]+'%',height:c.fireHalo[3]+'%','animation-duration':'.7s'});
         // George 2026-11-28: sculpted clay flames in stop-motion frames instead of a heat-warp filter
         var q=c.clayFire; el(L,'cfire',{left:q[0]+'%',top:q[1]+'%',width:q[2]+'%',height:q[3]+'%','animation-duration':q[4]+'s'}) }
-      (c.candles||[]).forEach(function(q){ el(L,'fl',{left:q[0]+'%',top:q[1]+'%','--s':q[2]+'%','--d':rnd(.9,1.6)+'s','--dl':'-'+rnd(0,1.5)+'s'}) });
+      (c.candles||[]).forEach(function(q){ el(L,'fl',{left:q[0]+'%',top:q[1]+'%','--s':q[2]+'%','--d':rnd(2.4,3.4)+'s','--dl':'-'+rnd(0,3)+'s'});
+ });
+      // George 2026-11-28: every candle gets a sculpted clay flame in slow stop-motion poses, sized over the painted flame
+      (c.cflames||[]).forEach(function(q){ el(L,'cfl',{left:q[0]+'%',top:q[1]+'%',width:q[2]+'%',height:q[3]+'%','animation-duration':rnd(1.7,2.3)+'s','animation-delay':'-'+rnd(0,2)+'s'}) });
       (c.bulbs||[]).forEach(function(b){ var d=el(L,'bulb',{left:b[0]+'%',top:b[1]+'%','--c':b[2],'--dl':'-'+rnd(0,4.2)+'s'}); d.appendChild(document.createElement('b')); d.appendChild(document.createElement('i')) });
       if(c.lamp) el(L,'dark',{});
       if(c.tv){ var t=c.tv, cv=document.createElement('canvas'); cv.width=72; cv.height=54; cv.style.left=t[0]+'%'; cv.style.top=t[1]+'%'; cv.style.width=t[2]+'%'; cv.style.height=t[3]+'%'; L.appendChild(cv);
@@ -876,16 +877,16 @@ button{font:inherit;color:inherit}
     var L=$('fx-inside'); if(!L) return;
     // George 2026-11-28: the rug's front edge is raised at its centre; the eyes stay put under it and only the pupils follow the mouse
     var R=document.createElement('div'); R.className='rlift';
-    R.innerHTML='<img src="img/rug-lift.webp?v=1" alt=""><div class="balls"><div class="white"></div><i class="iris"></i><i class="iris"></i><div class="shade"></div><i class="gl" style="left:35.8%;top:60.5%"></i><i class="gl" style="left:56.6%;top:60.5%"></i><div class="bl"></div></div>';
+    R.innerHTML='<img src="img/rug-lift.webp?v=2" alt=""><div class="balls"><i class="iris"></i><i class="iris"></i><div class="shade"></div><div class="bl"></div></div>';
     L.appendChild(R);
-    var IR=R.querySelectorAll('.iris'), C=[[38.1,62],[60,62]], look=null, pup={x:0,y:0}, last=0;
+    var IR=R.querySelectorAll('.iris'), C=[[39.6,62.5],[58.7,62.5]], look=null, pup={x:0,y:0}, last=0;
     window.addEventListener('pointermove',function(e){ if(cur!=='inside') return; var r=R.getBoundingClientRect(); look={x:e.clientX-(r.left+r.width*.49), y:e.clientY-(r.top+r.height*.62), w:r.width}; last=Date.now() },{passive:true});
     function frame(){ requestAnimationFrame(frame); if(cur!=='inside') return;
       var tx=0, ty=0;
       if(look&&Date.now()-last<6000){ var d=Math.hypot(look.x,look.y)||1, m=Math.min(1,d/(look.w*.9)); tx=look.x/d*m; ty=look.y/d*m }
       else { var t=Date.now()/1000; tx=Math.sin(t*.37)*.6; ty=Math.sin(t*.23)*.3 }
       pup.x+=(tx-pup.x)*.12; pup.y+=(ty-pup.y)*.12;
-      for(var i=0;i<2;i++){ IR[i].style.left=(C[i][0]+pup.x*3.6+(i?-1:1)*Math.max(0,pup.y)*.4)+'%'; IR[i].style.top=(C[i][1]+pup.y*4.2)+'%' }
+      for(var i=0;i<2;i++){ IR[i].style.left=(C[i][0]+pup.x*3.4)+'%'; IR[i].style.top=(C[i][1]+pup.y*3.2)+'%' }
     }
     requestAnimationFrame(frame);
     setInterval(function(){ if(cur==='inside'&&Math.random()<.4){ R.classList.remove('blink'); void R.offsetWidth; R.classList.add('blink') } },2300);
